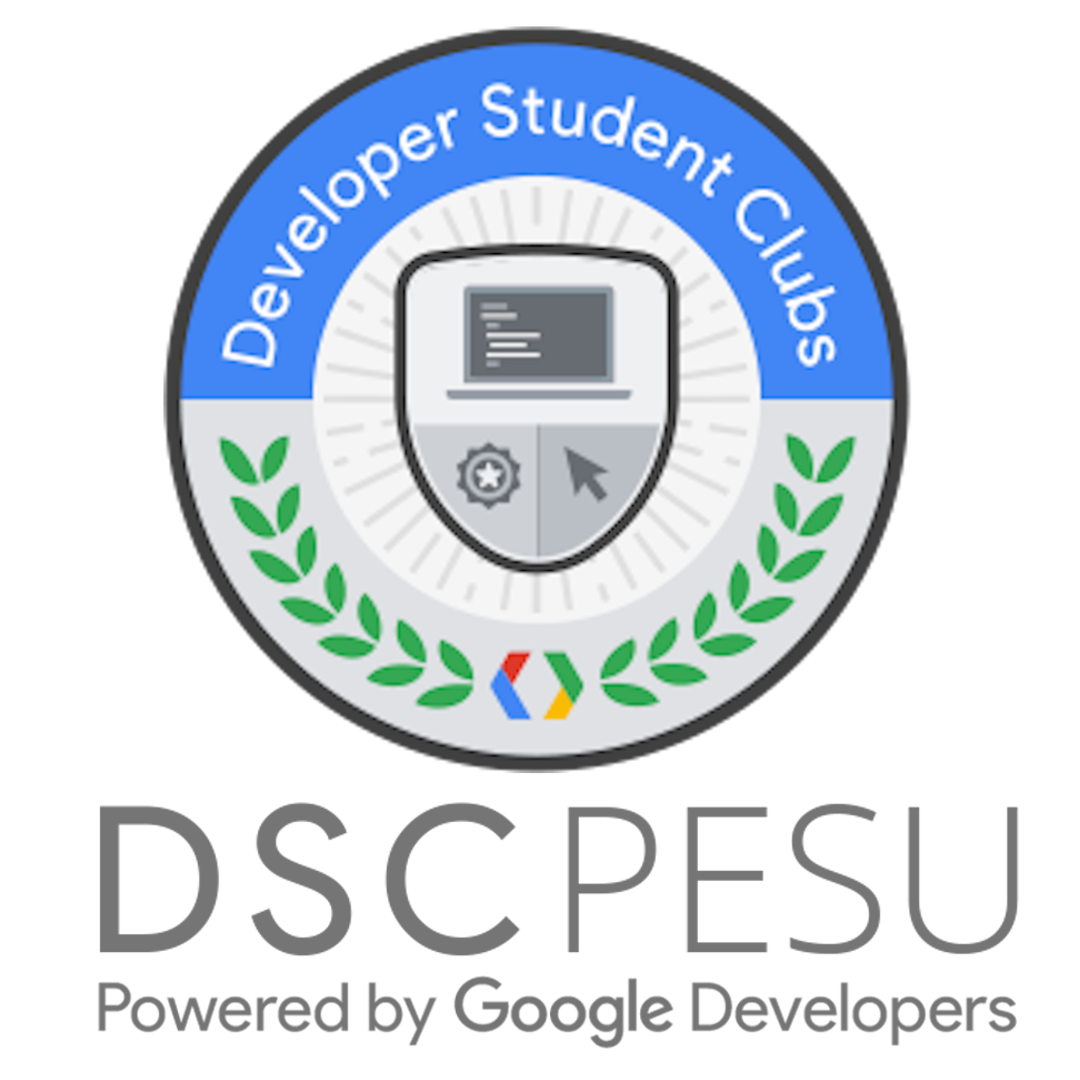
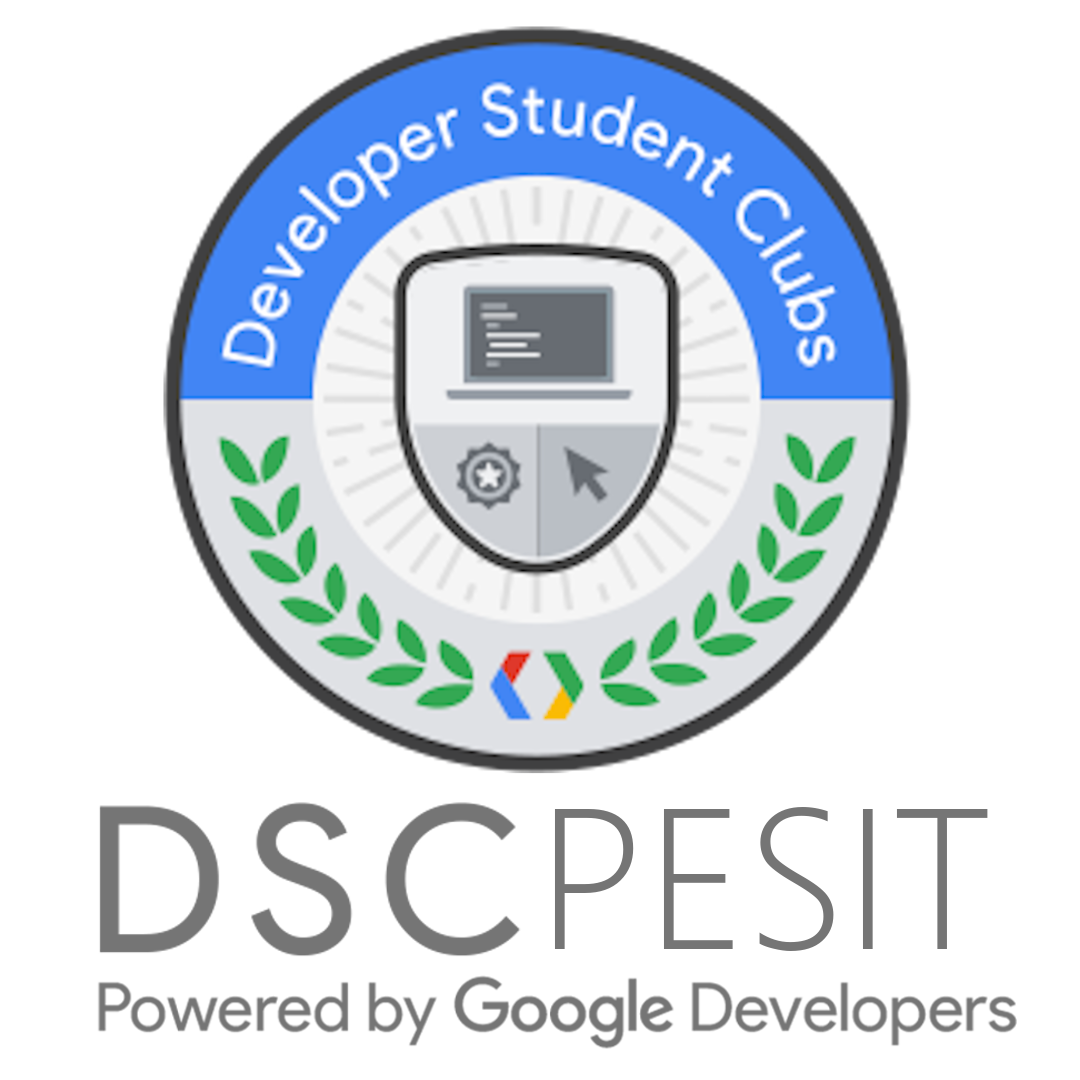
Updated Design

Changed region(s): [[0.4889, 0.7333, 0.9472, 0.8861]]

diff --git a/index.html b/index.html
@@ -102,7 +102,7 @@
         <div class="row">
                 <div class="col-lg-12" data-aos="fade-up">
                     <div>
-                        <h1>Title Sponsor - ARI GLOBAL SOLUTONS</h1><br><br>
+                        <h1>Event Sponsor - ARI GLOBAL SOLUTONS</h1><br><br>
                         <div class="overlay"></div>
                         <div class="container" style="background: url('bg-masthead.jpg')no-repeat center center;background-size: cover;background-image: url(&quot;assets/img/dark.png&quot;">
                         <div class="row">
@@ -122,7 +122,7 @@
             <div class="row">
                     <div class="col-lg-12" data-aos="fade-up">
                         <div>
-                            <h1>Partners</h1><br><br>
+                            <h1>Community Partners</h1><br><br>
                             <div class="overlay"></div>
                             <div class="container" style="background: url('bg-masthead.jpg')no-repeat center center;background-size: cover;background-image: url(&quot;assets/img/dark.png&quot;">
                             <div class="row">
@@ -370,7 +370,7 @@
                         <li class="list-inline-item"><span>⋅</span></li>
                         <li class="list-inline-item"><a id="grayfont" href="#">Privacy Policy</a></li>
                     </ul>
-                    <p class="text-muted small mb-4 mb-lg-0">Tensor • ACM PESU ECC • DSC PESU ECC • Techwarts</p>
+                    <p class="text-muted small mb-4 mb-lg-0">Tensor • ACM PESU ECC • DSC PEST • Techwarts</p>
                 </div>
                 <div class="col-lg-6 my-auto h-100 text-center text-lg-right">
                     <ul class="list-inline mb-0">
